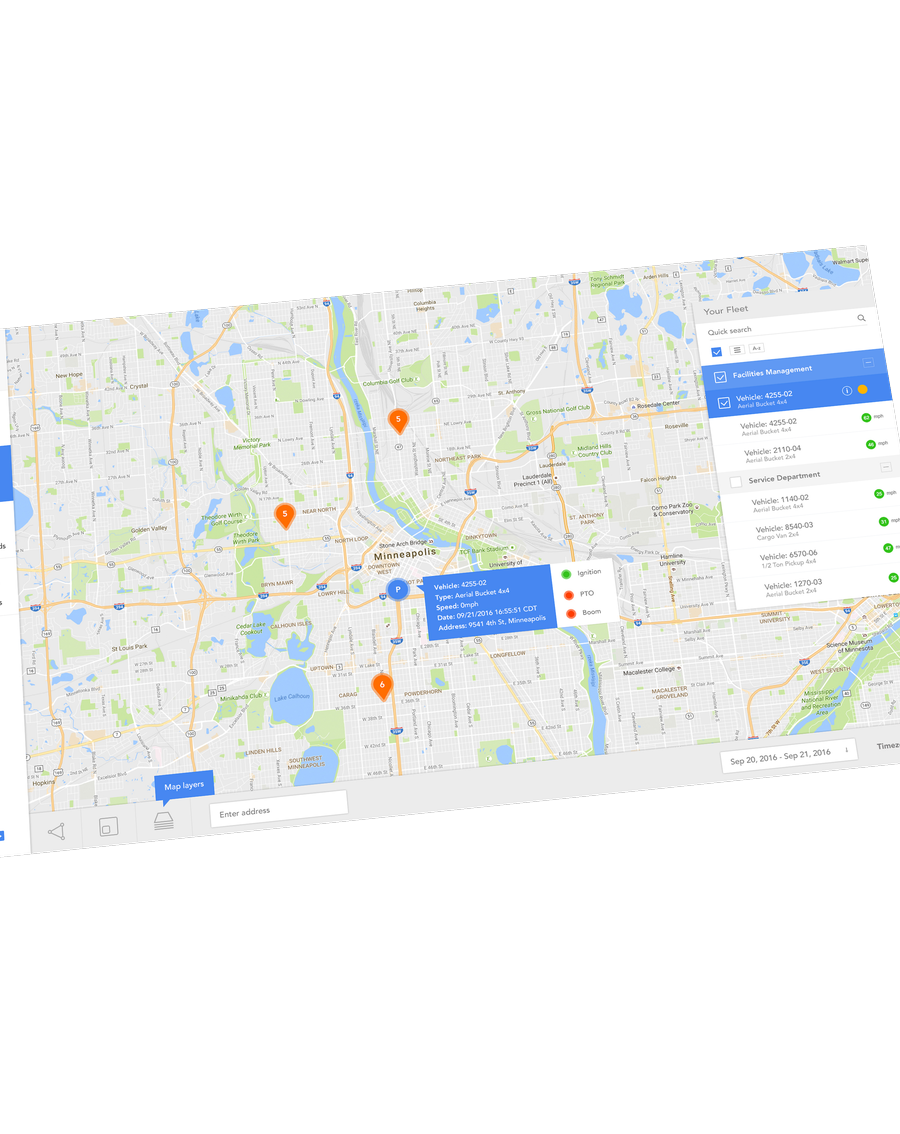
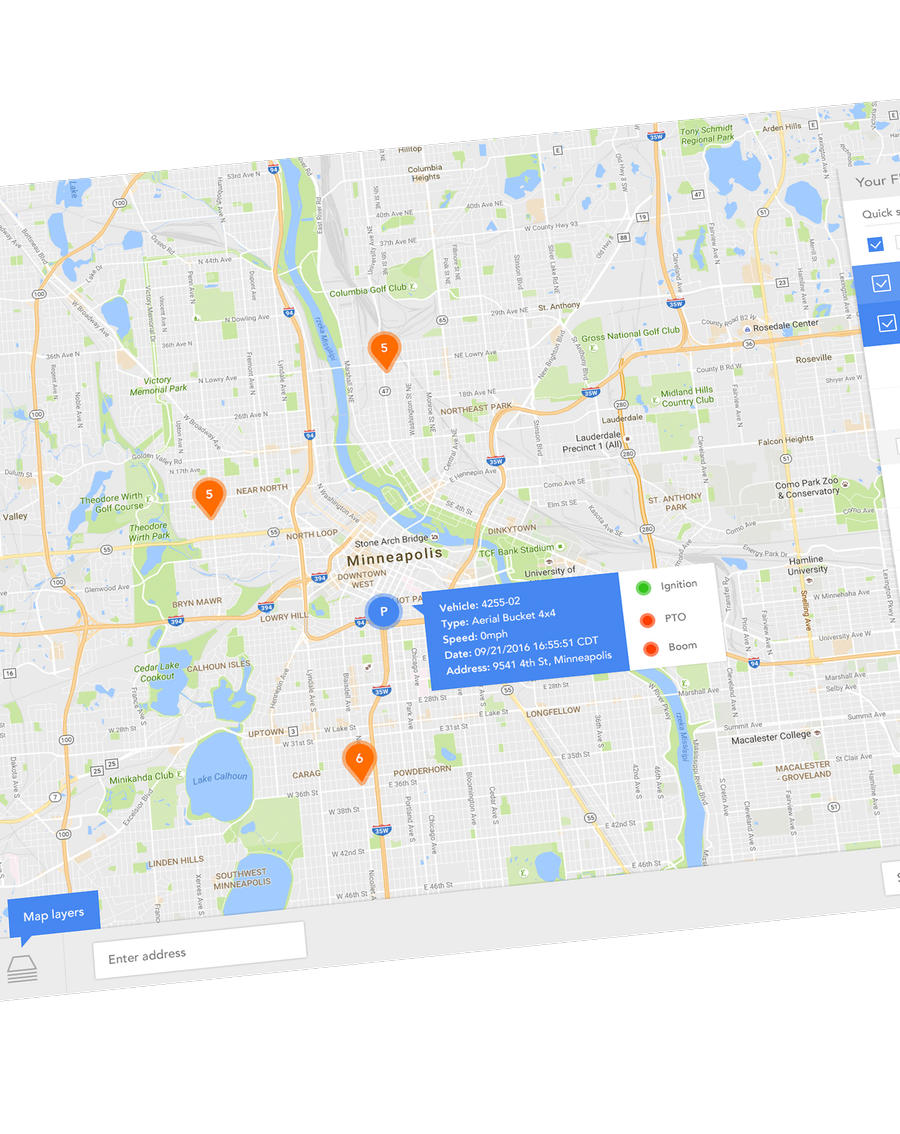
fix(utilimarc): match reference card layout and SaaS label
Rebuild the skew mockup scale from the gray card reference and center it above the title band.

Changed region(s): [[0.0, 0.0926, 1.0, 0.8642], [0.9333, 0.7407, 1.0, 0.8025], [0.4667, 0.7716, 0.4978, 0.8025]]

diff --git a/content/portfolio.js b/content/portfolio.js
@@ -1,1 +1,1 @@
-window.PORTFOLIO = {"projects":[{"id":"transimeksa","category":"desktop","title":"Transimeksa\nLogistic\nSolutions","label":"Desktop website","color":"#0f5d4f","image":"images/transimeksa.jpg"},{"id":"irshad","category":"desktop","title":"Irshad\nPetroleum","label":"Desktop website","color":"#1f4e88","image":"images/irshad.jpg"},{"id":"dynamite","category":"desktop","title":"Dynamite\nStudio","label":"Desktop website","color":"#ec413a","image":"images/Sysdyne-NewOrder-skew.png","mediaVersion":"20251108f"},{"id":"alior","category":"desktop","title":"Alior\nSync\nBanking","label":"Desktop website","color":"#fe9400","image":"images/alior.jpg"},{"id":"utilimarc","category":"desktop","title":"Utilimarc\nTelematics","label":"Desktop Dashboard","color":"#566167","image":"images/utilimarc-skew.png","mediaVersion":"20251108f"},{"id":"hello","category":"desktop","title":"Hello","label":"Desktop Dashboard","color":"#b62b88","image":"images/hello.jpg"},{"id":"tallinder","category":"desktop","title":"Tallinder","label":"Desktop","color":"#222222","image":"images/tallinder.jpg"},{"id":"oticon","category":"mobile","title":"Oticon\nRemoteCare","label":"Mobile App","color":"#c2a88d","image":"images/oticon.jpg"},{"id":"ponto","category":"mobile","title":"Ponto Trial\nCampanion","label":"Mobile App","color":"#6a6a68","image":"images/ponto.jpg"},{"id":"hearing-fitness","category":"mobile","title":"Hearing\nFitness","label":"Tablet App","color":"#1e2428","image":"images/hearing-fitness.jpg"},{"id":"bahs","category":"mobile","title":"BAHS App","label":"Mobile App","color":"#f07228","image":"images/bahs.jpg"},{"id":"sysdyne-illustrations","category":"motion","title":"Sysdyne\nIllustrations","label":"Motion","color":"#e5642c","image":"images/sysdyne-illustrations.png","mediaVersion":"20251108d"}]};
+window.PORTFOLIO = {"projects":[{"id":"transimeksa","category":"desktop","title":"Transimeksa\nLogistic\nSolutions","label":"Desktop website","color":"#0f5d4f","image":"images/transimeksa.jpg"},{"id":"irshad","category":"desktop","title":"Irshad\nPetroleum","label":"Desktop website","color":"#1f4e88","image":"images/irshad.jpg"},{"id":"dynamite","category":"desktop","title":"Dynamite\nStudio","label":"Desktop website","color":"#ec413a","image":"images/Sysdyne-NewOrder-skew.png","mediaVersion":"20251108f"},{"id":"alior","category":"desktop","title":"Alior\nSync\nBanking","label":"Desktop website","color":"#fe9400","image":"images/alior.jpg"},{"id":"utilimarc","category":"desktop","title":"Utilimarc\nTelematics","label":"SaaS Dashboard","color":"#566167","image":"images/utilimarc-skew.png","mediaVersion":"20251108g"},{"id":"hello","category":"desktop","title":"Hello","label":"Desktop Dashboard","color":"#b62b88","image":"images/hello.jpg"},{"id":"tallinder","category":"desktop","title":"Tallinder","label":"Desktop","color":"#222222","image":"images/tallinder.jpg"},{"id":"oticon","category":"mobile","title":"Oticon\nRemoteCare","label":"Mobile App","color":"#c2a88d","image":"images/oticon.jpg"},{"id":"ponto","category":"mobile","title":"Ponto Trial\nCampanion","label":"Mobile App","color":"#6a6a68","image":"images/ponto.jpg"},{"id":"hearing-fitness","category":"mobile","title":"Hearing\nFitness","label":"Tablet App","color":"#1e2428","image":"images/hearing-fitness.jpg"},{"id":"bahs","category":"mobile","title":"BAHS App","label":"Mobile App","color":"#f07228","image":"images/bahs.jpg"},{"id":"sysdyne-illustrations","category":"motion","title":"Sysdyne\nIllustrations","label":"Motion","color":"#e5642c","image":"images/sysdyne-illustrations.png","mediaVersion":"20251108d"}]};

diff --git a/portfolio.html b/portfolio.html
@@ -9,7 +9,7 @@
     <link rel="preconnect" href="https://fonts.googleapis.com" />
     <link rel="preconnect" href="https://fonts.gstatic.com" crossorigin />
     <link href="https://fonts.googleapis.com/css2?family=Manrope:wght@200;500;600;700&display=swap" rel="stylesheet" />
-    <link rel="stylesheet" href="css/site.css?v=20251108f" />
+    <link rel="stylesheet" href="css/site.css?v=20251108g" />
   </head>
   <body>
     <div class="shell shell-viewport portfolio-page">
@@ -55,7 +55,7 @@
       </div>
     </div>
     <script src="content/portfolio.js?v=20251107h"></script>
-    <script src="js/portfolio.js?v=20251107h"></script>
+    <script src="js/portfolio.js?v=20251108g"></script>
     <script src="js/keyboard.js?v=20251108m"></script>
     <script src="js/close.js"></script>
   </body>

diff --git a/css/site.css b/css/site.css
@@ -529,7 +529,7 @@ a { color: inherit; }
 
 .portfolio-page .card-visual:has(.card-visual-skew) {
   grid-row: 1 / 3;
-  padding: 0 0 4%;
+  padding: 0 0 2%;
   overflow: hidden;
   place-items: end start;
 }
@@ -578,6 +578,16 @@ a { color: inherit; }
   align-self: end;
   transform: none;
   box-shadow: none;
+}
+
+.portfolio-page .card[data-project-id="utilimarc"] .card-visual:has(.card-visual-skew) {
+  place-items: end center;
+}
+
+.portfolio-page .card[data-project-id="utilimarc"] .card-visual img.card-visual-skew {
+  width: 100%;
+  object-position: center 100%;
+  justify-self: center;
 }
 
 .portfolio-page .card:hover .card-visual img.card-visual-skew,

diff --git a/js/portfolio.js b/js/portfolio.js
@@ -80,6 +80,7 @@
       slice.forEach(function (project) {
         var card = document.createElement("article");
         card.className = "card";
+        card.dataset.projectId = project.id;
         card.style.background = project.color;
         var visual = document.createElement("div");
         visual.className = "card-visual";
